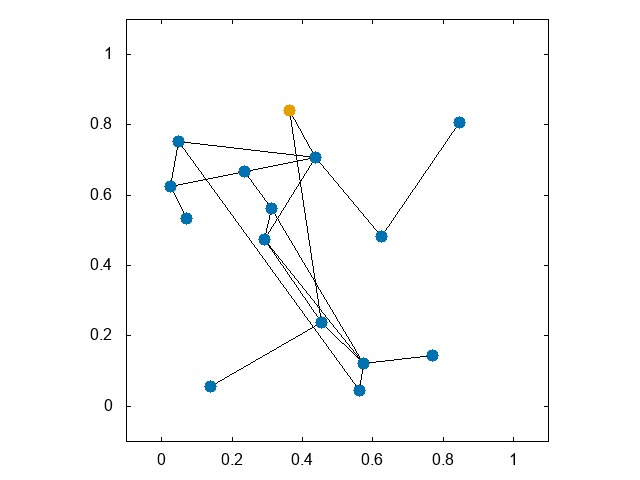
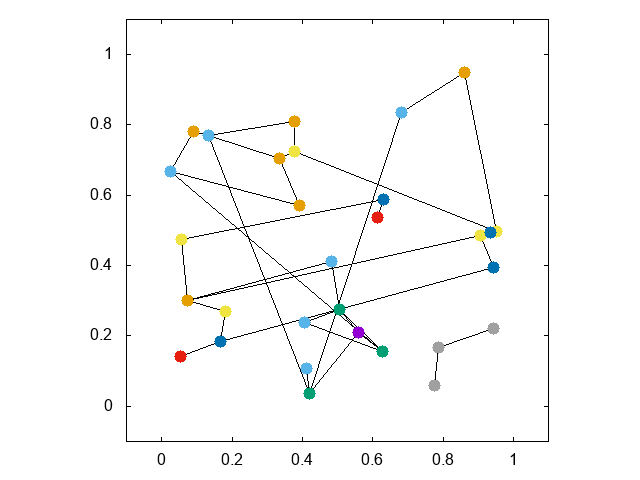
Mejoras
Modificación del código para hacer una buena ejemplificación del algoritmo

diff --git a/Berrones/BFS.py b/Berrones/BFS.py
@@ -22,16 +22,6 @@ class Grafo:
             if not (x,y) in self.vecinos:
                 self.vecinos[(x,y)] = set()
 
-    def guarda(self):
-        with open("BFS.dat", "w") as crear:
-            import random
-            self.nodoInicio = random.sample(self.nodos,1)[0]
-            for nodos in self.nodos:
-                if nodos == self.nodoInicio:
-                    print(self.nodoInicio[0],self.nodoInicio[1],4, file=crear)
-                if nodos is not self.nodoInicio:
-                    print(nodos[0],nodos[1],6, file=crear)
-
 
     def distancia(self):
         for (x1,y1) in self.nodos:
@@ -130,24 +120,30 @@ class Grafo:
                 
 
     def Breath_First_Search(self):
-        import random
-        niveles = {}
-        explorado = []
-        estado = [self.nodoInicio]         
-        niveles[self.nodoInicio]= 0    
-        visitado= [self.nodoInicio]     
-        while estado:
-            nodo = estado.pop(0)
-            explorado.append(nodo)
-            vecino = self.vecinos[nodo]
-            for vecino in vecino:
-                if vecino not in visitado:
-                    estado.append(vecino)
-                    visitado.append(vecino)
-                    niveles[vecino]= niveles[nodo]+1
-                    
-        print(niveles)
-        return explorado
+        with open ("niveles.dat", "w") as crear:
+            import random
+            self.nodoInicio = random.sample(self.nodos,1)[0]
+            self.niveles = {}
+            self.explorado = []
+            self.estado = [self.nodoInicio]         
+            self.niveles[self.nodoInicio]= 0
+            print(self.nodoInicio[0],self.nodoInicio[1],self.niveles[self.nodoInicio]+1,file=crear)
+            self.visitado= [self.nodoInicio]     
+            while self.estado:
+                self.nodo = self.estado.pop(0)
+                self.explorado.append(self.nodo)
+                self.vecino = self.vecinos[self.nodo]
+                for self.vecino in self.vecino:
+                    if self.vecino not in self.visitado:
+                        self.estado.append(self.vecino)
+                        self.visitado.append(self.vecino)
+                        self.niveles[self.vecino]= self.niveles[self.nodo]+1
+                        print(self.vecino[0],self.vecino[1],self.niveles[self.vecino]+1, file=crear)
+            for (x,y) in self.nodos:
+                if (x,y) not in self.visitado:
+                    print(x,y,0, file=crear)
+            print(self.niveles)
+            return self.explorado
 
 
     def graficar(self, di):
@@ -178,7 +174,7 @@ class Grafo:
                  else:
                      print("set arrow {:d} from {:f}, {:f} to {:f}, {:f} nohead filled lw 1".format(num+1,x1,y1,x2,y2),file=archivo)
                  num+=1
-             print("plot 'BFS.dat' using 1:2:3 with points pt 7 lc var", file=archivo)
+             print("plot 'niveles.dat' using 1:2:3 with points pt 7 lc var", file=archivo)
              print("show arrow", file=archivo)
              print("quit()",file=archivo)
 
@@ -187,10 +183,9 @@ class Grafo:
 di = 0      #Si di=0 el grafo va a ser sin direccion, si es 1 es dirigido
 
 if di is 0:
-    i = 15 #Cantidad de nodos que va a tener el grafo
+    i = 30 #Cantidad de nodos que va a tener el grafo
     G = Grafo()
     G.agrega(i)
-    G.guarda()
     G.distancia()
     G.conecta()
     G.conectaAleatorio()
@@ -199,10 +194,9 @@ if di is 0:
 
 
 if di is 1:
-    i = 15 #Cantidad de nodos que va a tener el grafo
+    i = 35 #Cantidad de nodos que va a tener el grafo
     G = Grafo()
     G.agrega(i)
-    G.guarda()
     G.distancia()
     G.conectaDir()
     G.conectaAleatorioDir()
